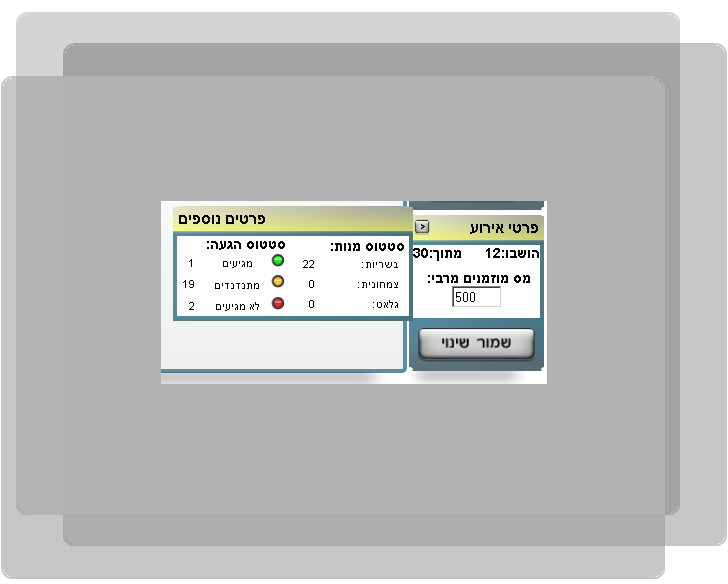
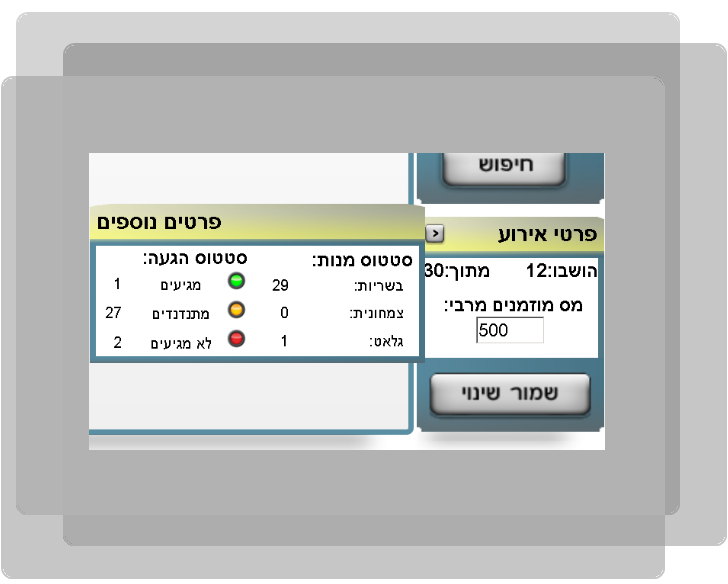
fixups

Changed region(s): [[0.1209, 0.2466, 0.8462, 0.7705]]

diff --git a/static/canvas/money_info.js b/static/canvas/money_info.js
@@ -1,6 +1,6 @@
 var mainFrameWidthMI = 850;
 var mainFrameHeightMI = 425;
-var frameStringMI = '<div id="MIFrame" width="840" style="position:absolute; z-index:99999;"><table  width="840" border="0" cellspacing="0" cellpadding="0"><tr><td width="5" height="25"><img src="/static/right_interface/images/tl.png" width="5" height="25" /></td><td height="25" bgcolor="#E0E0AD"><img id="moneyInfoCloseBtn" style="cursor:pointer;" src="/static/canvas/images/close_window_btn_n.png" width="16" height="16"></img></td><td height="25" colspan="2" bgcolor="#E0E0AD" dir="rtl"><span class="text_black">סטטוס כספי</span></td><td width="5" height="25"><img src="/static/right_interface/images/tr.png" width="5" height="25" /></td></tr><tr><td width="5" valign="bottom" bgcolor="#5A8EA3"></td><td bgcolor="white" align="center" valign="center" width="450" colspan="2"><div id="groupPie" style="margin-top:15;"></div></td><td bgcolor="white" width="390" align="right"></br><div id="moneyInfoMainWindow" /></br></td><td width="5" valign="bottom" bgcolor="#5A8EA3"></td></tr><tr><td width="5" valign="bottom"><img src="/static/right_interface/images/bl.png" width="5" height="5" /></td><td colspan="3" bgcolor="#5A8EA"></td><td width="5" valign="bottom"><img src="/static/right_interface/images/br.png" width="5" height="5" /></td></tr><tr><td width="5" valign="bottom"></td><td colspan="3" valign="top"><img src="/static/page/images/shadow.png" width="840" height="15" /></td><td width="5" valign="bottom"></td></tr></table></div>';
+var frameStringMI = '<div id="MIFrame" width="840" style="position:absolute; z-index:99999;"><table  width="840" border="0" cellspacing="0" cellpadding="0"><tr><td width="5" height="25"><img src="/static/right_interface/images/tl.png" width="5" height="25" /></td><td height="25" bgcolor="#E0E0AD"><img id="moneyInfoCloseBtn" style="cursor:pointer;" src="/static/canvas/images/close_window_btn_n.png" width="16" height="16"></img></td><td height="25" colspan="2" bgcolor="#E0E0AD" dir="rtl"><span class="text_black">סטטוס כספי</span></td><td width="5" height="25"><img src="/static/right_interface/images/tr.png" width="5" height="25" /></td></tr><tr><td width="5" valign="bottom" bgcolor="#5A8EA3"></td><td bgcolor="white" align="center" valign="center" width="450" colspan="2"><div id="groupPie" style="margin-top:15;"></div></td><td bgcolor="white" width="430" align="right"></br><div id="moneyInfoMainWindow" /></br></td><td width="5" valign="bottom" bgcolor="#5A8EA3"></td></tr><tr><td width="5" valign="bottom"><img src="/static/right_interface/images/bl.png" width="5" height="5" /></td><td colspan="3" bgcolor="#5A8EA"></td><td width="5" valign="bottom"><img src="/static/right_interface/images/br.png" width="5" height="5" /></td></tr><tr><td width="5" valign="bottom"></td><td colspan="3" valign="top"><img src="/static/page/images/shadow.png" width="840" height="15" /></td><td width="5" valign="bottom"></td></tr></table></div>';
 	
 //return [total sum,other group total sum,family group total sum,friends group total sum,work group total sum]
 function getFullMoneyInfo()
@@ -51,13 +51,13 @@ function createInfoFields(sumData)
 			pieData[4] = ["", sumData[5]];
 			pieData[5] = ["" , sumData[6]];
 			pieData[6] = ["" , sumData[7]];
-			var fp = parseInt(sumData[1] * 100 / sumData[0]);
-			var sp = parseInt(sumData[2] * 100 / sumData[0]);
-			var tp = parseInt(sumData[3] * 100 / sumData[0]);
-			var fop = parseInt(sumData[4] * 100 / sumData[0]);
-			var fip = parseInt(sumData[5] * 100 / sumData[0]);
-			var sip = parseInt(sumData[6] * 100 / sumData[0]);
-			var sep = parseInt(sumData[7] * 100 / sumData[0]);
+			var fp = (sumData[1] * 100 / sumData[0]).toFixed(2);
+			var sp = (sumData[2] * 100 / sumData[0]).toFixed(2);
+			var tp = (sumData[3] * 100 / sumData[0]).toFixed(2);
+			var fop = (sumData[4] * 100 / sumData[0]).toFixed(2);
+			var fip = (sumData[5] * 100 / sumData[0]).toFixed(2);
+			var sip = (sumData[6] * 100 / sumData[0]).toFixed(2);
+			var sep = (sumData[7] * 100 / sumData[0]).toFixed(2);
 			
 			if (!(fp > 0))
 			{
@@ -103,7 +103,7 @@ function createInfoFields(sumData)
 		}
 		
 		var newDataArray = new Array();
-		var colors = ["#5A8EA3","#E0E0AD","#CFC2D3","#4ABBEF","#8E8E8E","#511EA3","#411BEF"];
+		var colors = ["#5A8EA3","#E0E0AD","#CFC2D3","#4ABBEF","#8E8E8E","#881EA3","#881BEF"];
 		var colorNum = 0;
 		
 		if (pieData[0][1] > 0)
@@ -155,7 +155,7 @@ function createInfoFields(sumData)
 
 function drawSumsPie(data)
 {
-	var colors = ["#5A8EA3","#E0E0AD","#CFC2D3","#4ABBEF","#8E8E8E","#511EA3","#411BEF"];
+	var colors = ["#5A8EA3","#E0E0AD","#CFC2D3","#4ABBEF","#8E8E8E","#881EA3","#881BEF"];
 	var chartColors = new Array();
 	
 	for (var i=0; i < data.length; i++)

diff --git a/templates/canvas/canvas.html b/templates/canvas/canvas.html
@@ -554,17 +554,17 @@
 				</div>
 			{% endfor %}
 			<div id="mainPanelPattren">
-				<table id="tableMovingPanel" border="0" cellspacing="0" cellpadding="0">
+				<table id="tableMovingPanel" border="0" cellspacing="0" cellpadding="0" width="1200">
 					<tr>
 					  <td  width="5" height="32" valign="top"><img src="/static/canvas/images/blue_left_main_panel.png" height="32" /></td>
-					  <td id="movingPanelLeft" height="32" width="632" bgcolor="#5A8EA3"></td>
+					  <td id="movingPanelLeft" height="32" width="645" bgcolor="#5A8EA3"></td>
 					  <td width="5" height="32" valign="top"><img src="/static/canvas/images/midmainbar.png" width="5" height="32" /></td>
-					  <td id="movingPanel" height="32" width="548" class="MainPanelYellow" valign="top" align="right">
+					  <td id="movingPanel" height="32" width="555" class="MainPanelYellow" valign="top" align="right">
 					  <!--[if IE]>
-							<marquee id="movingPanelMarquee" behavior="scroll" scrollamount="6" direction="right" height="32" width="548" >
+							<marquee id="movingPanelMarquee" behavior="scroll" scrollamount="6" direction="right" height="32" width="555" >
 					  <![endif]-->
 					  <!--[if !IE]><!-->
-					  		<marquee id="movingPanelMarquee" behavior="scroll" scrollamount="6" direction="right" height="32" width="548">
+					  		<marquee id="movingPanelMarquee" behavior="scroll" scrollamount="6" direction="right" height="32" width="555">
 					  <!--<![endif]-->
 						<table border="0" cellspacing="2.5" cellpadding="0">
 							<!--<td valign="top">

diff --git a/static/canvas/general.js b/static/canvas/general.js
@@ -3261,12 +3261,12 @@ $(document).ready(function() {
 				   if (data.status == 'OK')
 				   {
 						setSaveStatus("OK");
-						$("#inv_accept_amount").text(data.GuestsInvAccept);
-						$("#inv_tentative_amount").text(data.GuestsTentativeInv);
-						$("#inv_noaccept_amount").text(data.GuestsInvNotAccept);
-						$("#meat_amount").text(data.GuestsMeatMeal);
-						$("#veg_amount").text(data.GuestsVegMeal);
-						$("#glat_amount").text(data.GuestsGlatMeal);
+						$("#inv_accept_amount").text(IsNumeric(data.GuestsInvAccept) ? data.GuestsInvAccept : "0");
+						$("#inv_tentative_amount").text(IsNumeric(data.GuestsTentativeInv) ? data.GuestsTentativeInv : "0");
+						$("#inv_noaccept_amount").text(IsNumeric(data.GuestsInvNotAccept) ? data.GuestsInvNotAccept : "0");
+						$("#meat_amount").text(IsNumeric(data.GuestsMeatMeal) ? data.GuestsMeatMeal : "0");
+						$("#veg_amount").text(IsNumeric(data.GuestsVegMeal) ? data.GuestsVegMeal : "0");
+						$("#glat_amount").text(IsNumeric(data.GuestsGlatMeal) ? data.GuestsGlatMeal : "0");
 					}
 				   else
 				   {

diff --git a/canvas/views.py b/canvas/views.py
@@ -6,6 +6,7 @@ from Seating.accounts.models import Guest
 from Seating.accounts.models import UserProfile, Partners
 from Seating.accounts.models import OccasionOperationItem
 from django.db.models import Max
+from django.db.models import Sum
 from django.utils import simplejson as json
 from django.contrib.auth.decorators import login_required
 from django.http import HttpResponseRedirect, HttpResponse, Http404
@@ -861,13 +862,13 @@ def change_user_profile(request):
 def get_occasion_meal_and_inv_details(request):
 	json_dump = json.dumps({'status': "Error"})
 	if request.method == 'POST':
-		GuestsInvAccept = Guest.objects.filter(user=request.user , invation_status = 'A')
-		GuestsNotInvAccept = Guest.objects.filter(user=request.user , invation_status = 'N')
-		GuestsTentativeInv = Guest.objects.filter(user=request.user , invation_status = 'T')
-		GuestsMeatMeal = Guest.objects.filter(user=request.user , meal = 'M')
-		GuestsVegMeal = Guest.objects.filter(user=request.user , meal= 'V')
-		GuestsGlatMeal = Guest.objects.filter(user=request.user , meal = 'G')
-		json_dump = json.dumps({'status': "OK",	'GuestsInvAccept' : str(len(GuestsInvAccept)),	'GuestsInvNotAccept' : str(len(GuestsNotInvAccept)),	'GuestsTentativeInv' : str(len(GuestsTentativeInv)),	'GuestsMeatMeal' : str(len(GuestsMeatMeal)),	'GuestsVegMeal' : str(len(GuestsVegMeal)),	'GuestsGlatMeal' : str(len(GuestsGlatMeal))})
+		GuestsInvAccept = Guest.objects.filter(user=request.user , invation_status = 'A').aggregate(Sum('qty'))['qty__sum']
+		GuestsNotInvAccept = Guest.objects.filter(user=request.user , invation_status = 'N').aggregate(Sum('qty'))['qty__sum']
+		GuestsTentativeInv = Guest.objects.filter(user=request.user , invation_status = 'T').aggregate(Sum('qty'))['qty__sum']
+		GuestsMeatMeal = Guest.objects.filter(user=request.user , meal = 'M').aggregate(Sum('qty'))['qty__sum']
+		GuestsVegMeal = Guest.objects.filter(user=request.user , meal= 'V').aggregate(Sum('qty'))['qty__sum']
+		GuestsGlatMeal = Guest.objects.filter(user=request.user , meal = 'G').aggregate(Sum('qty'))['qty__sum']
+		json_dump = json.dumps({'status': "OK",	'GuestsInvAccept' : str(GuestsInvAccept),	'GuestsInvNotAccept' : str(GuestsNotInvAccept),	'GuestsTentativeInv' : str(GuestsTentativeInv),	'GuestsMeatMeal' : str(GuestsMeatMeal),	'GuestsVegMeal' : str(GuestsVegMeal),	'GuestsGlatMeal' : str(GuestsGlatMeal)})
 	return HttpResponse(json_dump)
 
 @login_required
